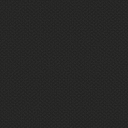
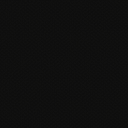
styled user edit registrations

Changed region(s): [[0.0, 0.0, 1.0, 1.0]]

diff --git a/app/assets/stylesheets/main.css.scss b/app/assets/stylesheets/main.css.scss
@@ -98,7 +98,7 @@ a {
 body {
 	font-size: 13px;
 	color: #474646;
-	background: #222 url(/assets/bg.png);
+	background: #222 url(/assets/bg3.png);
  /* background: #021E2D;*/
   font-family: 'PT Sans Caption', Helvetica, Tahoma, Arial, sans-serif;
 }
@@ -318,7 +318,7 @@ nav a {
 	box-shadow: 0px 0px 10px rgba(0,0,0,0.2);
 }
 .home-index .main-content {
-  padding-top: 135px;
+  padding-top: 110px;
 }
 .main-content {
   background: #fff;
@@ -708,8 +708,29 @@ a.ch-orange {
 	width: 700px;
 	margin: 0 auto;
 }
+.box900th {
+	width: 960px;
+	margin: 0 auto;
+}
 .adjecent {
 	float: left;
+}
+.profile-box {
+	border-radius: 10px;
+	padding: 25px;
+	width: 500px;
+	margin: 10px 40px 40px 0px;
+	@include act-fadein;
+		&:hover {
+			box-shadow: 0px 0px 16px rgba(0, 0, 0, 0.2);
+		}
+    
+    h5 {
+      margin-bottom: 7px;
+      font-size: 16px;
+      font-weight: bold;
+    }
+
 }
 .sign-box {
 	border-radius: 10px;
@@ -720,6 +741,14 @@ a.ch-orange {
 		&:hover {
 			box-shadow: 0px 0px 16px rgba(0, 0, 0, 0.2);
 		}
+    .user-avatar img {
+      border-radius: 3px;
+      padding: 5px;
+      width: 235px;
+      height: 235px;
+      background: #F1F1F1;
+      margin-bottom: 15px;
+    }
 }
 
 .face-box {
@@ -748,7 +777,7 @@ a.ch-orange {
 .sign-box input[type="submit"]:hover {
 	@include d-blue-btn-grad;
 }
-.sign-box input[type="text"], .sign-box input[type="password"], .sign-box input[type="email"] {
+.sign-box input[type="text"], .sign-box input[type="password"], .sign-box input[type="email"], .profile-box input[type="text"] {
 	width: 230px;
 	height: 28px;
 	border: 1px solid #ccc;
@@ -757,8 +786,9 @@ a.ch-orange {
 	border-radius: 5px;
 	line-height: 28px;
 	margin-bottom: 15px;
+  margin-top: 5px;
 }
-.sign-box input[type="text"]:focus, .sign-box input[type="password"]:focus, .sign-box input[type="email"]:focus {
+.sign-box input[type="text"]:focus, .sign-box input[type="password"]:focus, .sign-box input[type="email"]:focus, .profile-box input[type="text"]:focus {
 	border: 1px solid #3ca9d8;
 }
 .why-join {
@@ -1144,9 +1174,10 @@ h4 {
   padding-top: 1px;
 }
 #slides {
+  box-shadow: 0px -10px 24px rgba(0, 0, 0, 0.2);
   position: relative;
   float: left;
-  margin: -218px 15px 0 15px;
+  margin: -215px 15px 0 18px;
   background: #222;
 }
 .slides_container {
@@ -1172,9 +1203,9 @@ h4 {
   top: 0;
 }
 .slide-page {
+  float: right;
   background: #222;
   text-align: right;
-  width: 393px;
   position: absolute;
   bottom: 4px;
   right: 5px;
@@ -1182,13 +1213,15 @@ h4 {
         a {
           display: inline-block;
           width: 10px;
-          height: 10px;
+          height: 0;
+          padding-top: 10px;
           background: #333;
         }
-      text-indent: 9999px;
       list-style: none;
-      display: inline;
+      display: block;
       margin: 4px;
+      overflow: hidden;
+      float: left;
         
     }
     li.current a {
@@ -1230,7 +1263,7 @@ h4 {
   left: -12px;
 }
 .tagger {
-  margin: 5px 12px;
+  margin: 5px 6px;
   position: relative;
   background: #f1fcff;
   background: -moz-linear-gradient(top,  #f1fcff 0%, #def4ff 100%);
@@ -1240,18 +1273,29 @@ h4 {
   background: -ms-linear-gradient(top,  #f1fcff 0%,#def4ff 100%);
   background: linear-gradient(to bottom,  #f1fcff 0%,#def4ff 100%);
   filter: progid:DXImageTransform.Microsoft.gradient( startColorstr='#f1fcff', endColorstr='#def4ff',GradientType=0 );
-  padding: 3px 18px 3px 6px;
+  padding: 3px 20px 2px 6px;
   border: 1px solid #6cc6ef;
   border-top-right-radius: 3px;
   border-bottom-right-radius: 3px;
   color: #626262;
   font-size: 13px;
-  height: 23px;
-  overflow: hidden;
+  display: inline-block;
 }
 .tagger a {
   color: #626262;
   text-decoration: none;
+}
+.tag-plus {
+  width: 11px;
+  height: 11px;
+  position: absolute;
+  right: 5px;
+  top: 6px;
+  display: block;
+  background: url(/assets/tag-plus.png) no-repeat top left;
+}
+.tag-plus:hover {
+  background-position: bottom left; 
 }
 .tag-x {
   width: 11px;
@@ -1264,4 +1308,24 @@ h4 {
 }
 .tag-x:hover {
   background-position: bottom left; 
+}
+.added-user-tags {
+  margin: 15px 0px;
+}
+.tag-selector {
+    td a{
+      display: table-cell;
+      text-align: center;
+      vertical-align: middle;
+      width: 125px;
+      height: 125px;
+      border-radius: 3px;
+      @include q-fadein;
+        &:hover {
+          background: #DFF5FF;
+        }
+        &:active {
+          background: #e5f497;
+        }
+    }
 }
